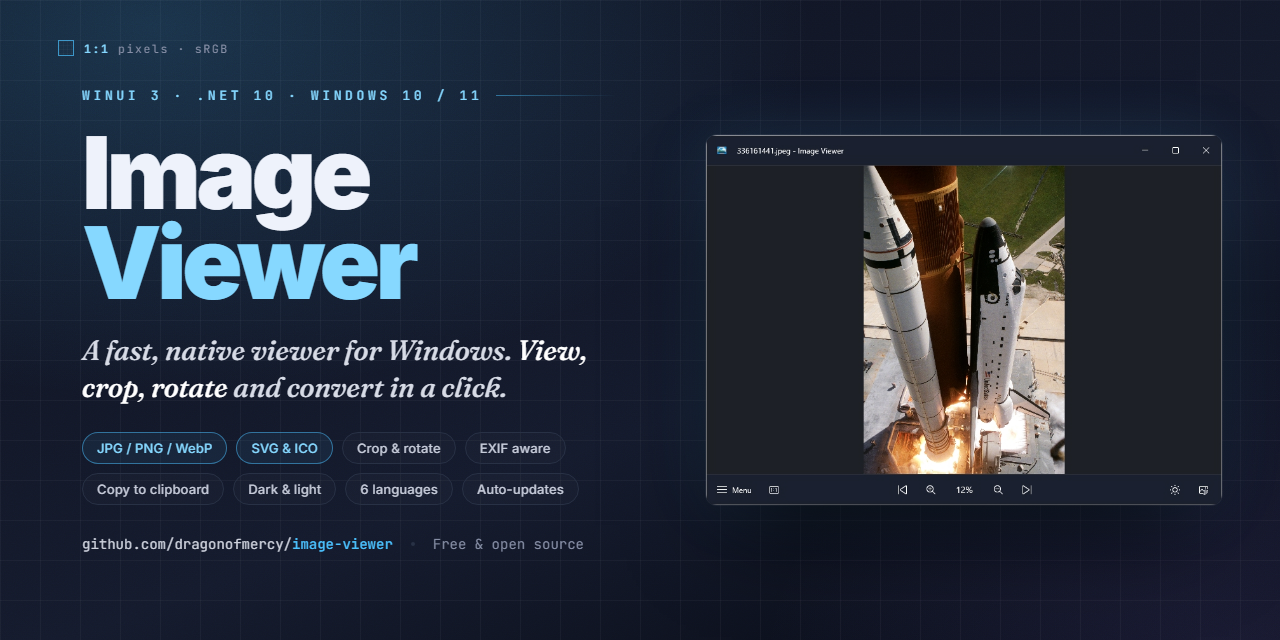
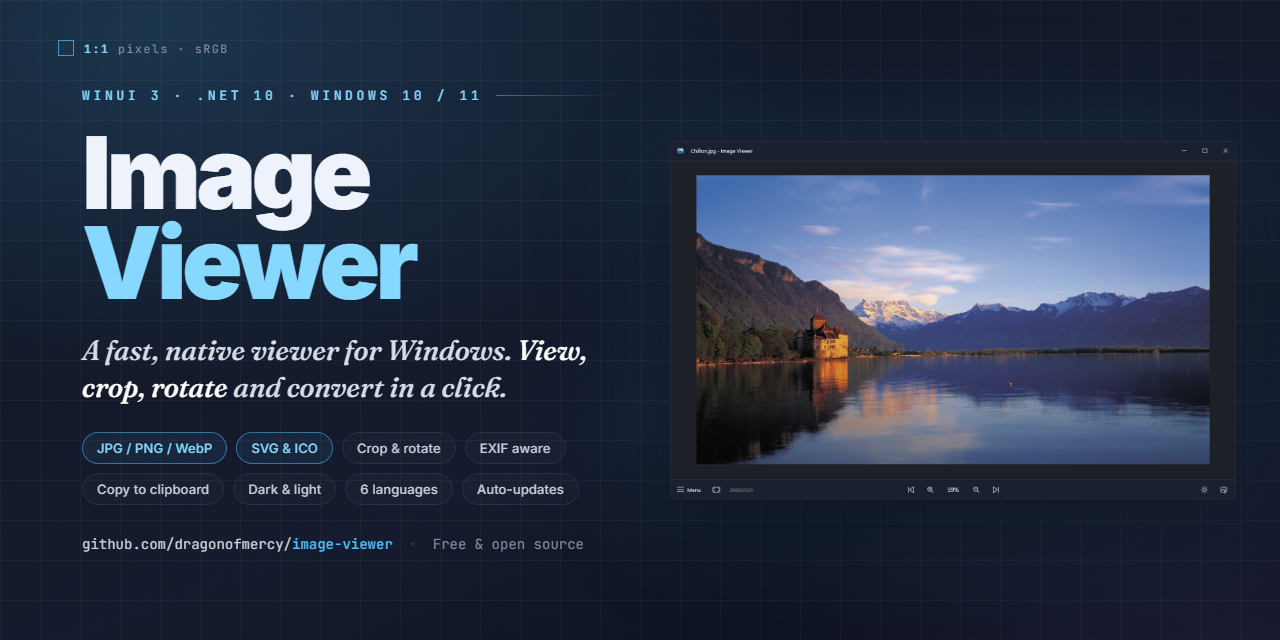
Use the new app screenshot for the README and social card
Replace screen1.jpg with screen.png (a transparent PNG with rounded
corners) as the inline README screenshot, and regenerate the og-image
social card to frame it with a shape-following drop-shadow instead of a
clipping CSS frame.

Changed region(s): [[0.5312, 0.2188, 0.9688, 0.7812], [0.9375, 0.75, 0.9688, 0.7812]]

diff --git a/README.md b/README.md
@@ -14,7 +14,7 @@
 Simple image viewer for Windows.  
 Image extensions supported: jpg, jpeg, bmp, png, gif, tif, tiff, tga, ico, webp and svg
 
-![](/.github/screen1.jpg)
+![](/.github/screen.png)
 
 ## How to build
 